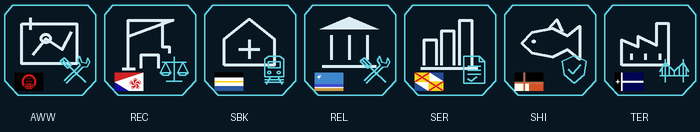
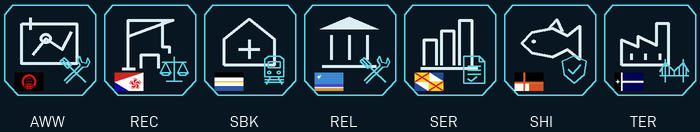
Use shipped glyphs for portable release artwork reviews

diff --git a/tools/release_foundations/build_art.py b/tools/release_foundations/build_art.py
@@ -1,11 +1,27 @@
 """Original release-maintenance emblems; existing flags keep national identity."""
-import argparse,hashlib,importlib.util,io,json
+import argparse,hashlib,importlib.util,io,json,re
 from pathlib import Path
 import PIL
 from PIL import Image,ImageDraw,ImageOps
 HERE=Path(__file__).resolve().parent;ROOT=HERE.parents[1];MOD=ROOT/'mod/2985041246';LIBRARY=ROOT/'tools/usea_expansion/build_art.py'
 spec=importlib.util.spec_from_file_location('release_original_symbols',LIBRARY);symbols=importlib.util.module_from_spec(spec);spec.loader.exec_module(symbols)
 SUBJECTS={'AWW':('command','tools'),'REC':('rebuild','scales'),'SBK':('civil','rail'),'REL':('assembly','tools'),'SER':('economy','document'),'SHI':('fishing','security'),'TER':('industry','bridge')}
+
+def sheet_label(image,text,x,y):
+    # Reuse shipped pixels, independent of the OS FreeType build.
+    source=(MOD/'gfx/fonts/ACBriefing16.fnt').read_text();metrics={};kern={}
+    for line in source.splitlines():
+        row={key:int(value) for key,value in re.findall(r'(\w+)=(-?\d+)',line)}
+        if line.startswith('char '):metrics[row['id']]=row
+        elif line.startswith('kerning '):kern[row['first'],row['second']]=row['amount']
+    atlas_name=re.search(r'page id=0 file="([^"]+)"',source)[1]
+    with Image.open(MOD/'gfx/fonts'/atlas_name) as original:atlas=original.convert('RGBA')
+    previous=None
+    for char in text:
+        ident=ord(char);row=metrics[ident];x+=kern.get((previous,ident),0)
+        glyph=atlas.crop((row['x'],row['y'],row['x']+row['width'],row['y']+row['height']))
+        image.alpha_composite(glyph,(x+row['xoffset'],y+row['yoffset']))
+        x+=row['xadvance'];previous=ident
 def outputs():
     if PIL.__version__!='11.3.0':raise ValueError('Use pinned Pillow11.3.0')
     out={};assets=[];sprites=[];sources={};sheet=Image.new('RGBA',(700,132),(8,22,33,255));d=ImageDraw.Draw(sheet)
@@ -24,7 +40,7 @@ def outputs():
             stream=io.BytesIO();rendered.save(stream,format='DDS');data=stream.getvalue();relative=f'gfx/AC_release_foundations/{family}/{tag}.dds';out[MOD/relative]=data
             name=prefix+token;sprites.append(f'spriteType = {{ name = "{name}" texturefile = "{relative}" }}')
             sprites.append(f'spriteType = {{ name = "GFX_{token}" texturefile = "{relative}" }}')
-            if family=='category':sheet.alpha_composite(rendered,(100*n,0));d.text((100*n+30,111),tag,fill=(218,237,242,255))
+            if family=='category':sheet.alpha_composite(rendered,(100*n,0));sheet_label(sheet,tag,100*n+30,111)
             assets.append(dict(file=relative,sprite=name,width=rendered.width,height=rendered.height,frames=1,frame_width=rendered.width,frame_height=rendered.height,alpha_min=rendered.getchannel('A').getextrema()[0],alpha_max=255,sha256=hashlib.sha256(data).hexdigest(),role='Original '+family+' maintenance composition',subjects=subjects,identity=flag.relative_to(MOD).as_posix()))
         if tag in ('AWW','REC','SHI'):
             office=Image.new('RGBA',(156,210),(8,22,33,255));frame=ImageDraw.Draw(office)
@@ -43,6 +59,9 @@ if __name__=='__main__':
     for path,data in outputs().items():
         if args.check:
             actual=path.read_bytes() if path.exists() else b''
+            if path.suffix=='.png' and actual:
+                with Image.open(io.BytesIO(actual)) as old,Image.open(io.BytesIO(data)) as new:
+                    if old.size==new.size and old.convert('RGBA').tobytes()==new.convert('RGBA').tobytes():continue
             if path.suffix in ('.json','.gfx'):actual=actual.replace(b'\r\n',b'\n');data=data.replace(b'\r\n',b'\n')
             if actual!=data:raise SystemExit('Release artwork differs: '+str(path))
         else:path.parent.mkdir(parents=True,exist_ok=True);path.write_bytes(data)
